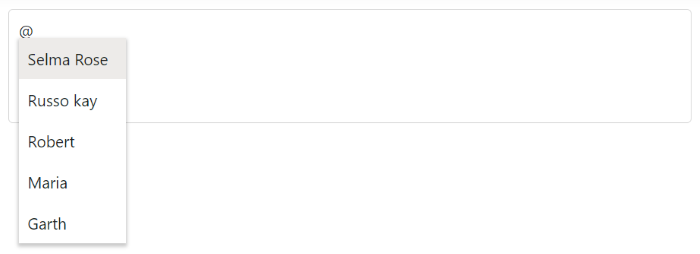
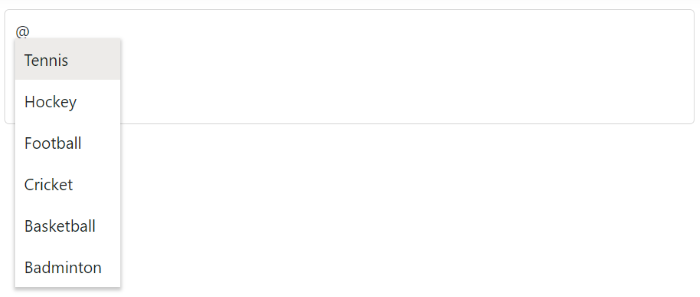
documentation(EJ2-65169): Addressed the review comments - Core MVC

diff --git a/ej2-asp-core-mvc/code-snippet/mention/sorting/SportsData.cs b/ej2-asp-core-mvc/code-snippet/mention/sorting/SportsData.cs
@@ -1,0 +1,25 @@
+using System;
+using System.Collections.Generic;
+using System.Linq;
+using System.Threading.Tasks;
+
+namespace WebApplication1.Models
+{
+    public class SportsData
+    {
+        public string ID { get; set; }
+        public string Game { get; set; }
+
+        public List<SportsData> SportsList()
+        {
+        List<SportsData> sports = new List<SportsData>();
+        sports.Add(new SportsData { ID="game1" ,Game ="Badminton"});
+        sports.Add(new SportsData { ID="game2" ,Game ="Football" });
+        sports.Add(new SportsData { ID="game3" ,Game ="Tennis"});
+        sports.Add(new SportsData { ID="game4" ,Game ="Hockey"});
+        sports.Add(new SportsData { ID="game5" ,Game ="Basketball"});
+        sports.Add(new SportsData { ID="game6" ,Game ="Cricket"});
+        return sports;
+        }
+    }
+}

diff --git a/ej2-asp-core-mvc/code-snippet/mention/filtering-data/allow-space/Employees.cs b/ej2-asp-core-mvc/code-snippet/mention/filtering-data/allow-space/Employees.cs
@@ -1,0 +1,24 @@
+using System;
+using System.Collections.Generic;
+using System.Linq;
+using System.Threading.Tasks;
+
+namespace WebApplication1.Models
+{
+    public class Employees
+    {
+        public string Name { get; set; }
+        public string Id { get; set; }
+        public List<Employees> GetData()
+        {
+            List<Employees> data = new List<Employees>();
+            data.Add(new Employees() { Name = "Andrew Fuller", Id = "1" });
+            data.Add(new Employees() { Name = "Anne Dodsworth" , Id = "2" } );
+            data.Add(new Employees() { Name = "Janet Leverling" , Id =  "3" } );
+            data.Add(new Employees() { Name = "Laura Callahan" , Id = "4" });
+            data.Add(new Employees() { Name = "Margaret Peacock" , Id = "5" });
+            return data;
+        }
+    }
+}
+

diff --git a/ej2-asp-core-mvc/mention/EJ2_ASP.NETCORE/filtering-data.md b/ej2-asp-core-mvc/mention/EJ2_ASP.NETCORE/filtering-data.md
@@ -42,18 +42,18 @@ In the following examples, data filtering is done with `StartsWith` type.
 
 ## Allow spacing between search
 
-While filtering, you can allow the space in the middle of the mention while searching the data in the data source by using the [allowSpaces](https://help.syncfusion.com/cr/aspnetmvc-js2/Syncfusion.EJ2.DropDowns.Mention.html#Syncfusion_EJ2_DropDowns_Mention_AllowSpaces) property. If the data source does not match with the mentioned element data, the popup will be hidden.
+While filtering the data in the data source, you can allow the space in the middle of the mention by using the [allowSpaces](https://help.syncfusion.com/cr/aspnetmvc-js2/Syncfusion.EJ2.DropDowns.Mention.html#Syncfusion_EJ2_DropDowns_Mention_AllowSpaces) property. If the data source does not match with the mentioned element data, the popup will be hidden.
 
 > By default, the `allowSpaces` property is disabled, and the space ends the mention control search.
 
-In the following example, `allowSpaces` property is enabled and the filtering waits after the space action
+In the following example, `allowSpaces` property is enabled and the filtering waits after the space action.
 
 {% tabs %}
 {% highlight cshtml tabtitle="CSHTML" %}
 {% include code-snippet/mention/filtering-data/allow-space/tagHelper %}
 {% endhighlight %}
 {% highlight c# tabtitle="Email.cs" %}
-{% include code-snippet/mention/filtering-data/allow-space/Countries.cs %}
+{% include code-snippet/mention/filtering-data/allow-space/Employees.cs %}
 {% endhighlight %}
 {% endtabs %}
 
@@ -61,7 +61,7 @@ In the following example, `allowSpaces` property is enabled and the filtering wa
 
 ## Customize the suggestion item count
 
-With the large amount of data source data bound for the Mention control, you can customize the number of list items to be displayed in the popup by using the [suggestionCount](https://help.syncfusion.com/cr/aspnetmvc-js2/Syncfusion.EJ2.DropDowns.Mention.html#Syncfusion_EJ2_DropDowns_Mention_SuggestionCount) property.
+You can customize the number of list items to be displayed in the popup by using the [suggestionCount](https://help.syncfusion.com/cr/aspnetmvc-js2/Syncfusion.EJ2.DropDowns.Mention.html#Syncfusion_EJ2_DropDowns_Mention_SuggestionCount) property.
 
 In the following example, the suggestion list for the popup is limited to eight data.
 

diff --git a/ej2-asp-core-mvc/mention/EJ2_ASP.MVC/filtering-data.md b/ej2-asp-core-mvc/mention/EJ2_ASP.MVC/filtering-data.md
@@ -48,18 +48,18 @@ In the following examples, data filtering is done with `StartsWith` type.
 
 ## Allow spacing between search
 
-While filtering, you can allow the space in the middle of the mention while searching the data in the data source by using the [AllowSpaces](https://help.syncfusion.com/cr/aspnetmvc-js2/Syncfusion.EJ2.DropDowns.Mention.html#Syncfusion_EJ2_DropDowns_Mention_AllowSpaces) property. If the data source does not match with the mentioned element data, the popup will be hidden.
+While filtering the data in the data source, you can allow the space in the middle of the mention by using the [AllowSpaces](https://help.syncfusion.com/cr/aspnetmvc-js2/Syncfusion.EJ2.DropDowns.Mention.html#Syncfusion_EJ2_DropDowns_Mention_AllowSpaces) property. If the data source does not match with the mentioned element data, the popup will be hidden.
 
 > By default, the `AllowSpaces` property is disabled, and the space ends the mention control search.
 
-In the following example, `AllowSpaces` property is enabled and the filtering waits after the space action
+In the following example, `AllowSpaces` property is enabled and the filtering waits after the space action.
 
 {% tabs %}
 {% highlight razor tabtitle="CSHTML" %}
 {% include code-snippet/mention/filtering-data/allow-space/razor %}
 {% endhighlight %}
 {% highlight c# tabtitle="Email.cs" %}
-{% include code-snippet/mention/filtering-data/allow-space/Countries.cs %}
+{% include code-snippet/mention/filtering-data/allow-space/Employees.cs %}
 {% endhighlight %}
 {% endtabs %}
 
@@ -67,7 +67,7 @@ In the following example, `AllowSpaces` property is enabled and the filtering wa
 
 ## Customize the suggestion item count
 
-With the large amount of data source data bound for the Mention control, you can customize the number of list items to be displayed in the popup by using the [SuggestionCount](https://help.syncfusion.com/cr/aspnetmvc-js2/Syncfusion.EJ2.DropDowns.Mention.html#Syncfusion_EJ2_DropDowns_Mention_SuggestionCount) property.
+You can customize the number of list items to be displayed in the popup by using the [SuggestionCount](https://help.syncfusion.com/cr/aspnetmvc-js2/Syncfusion.EJ2.DropDowns.Mention.html#Syncfusion_EJ2_DropDowns_Mention_SuggestionCount) property.
 
 In the following example, the suggestion list for the popup is limited to eight data.
 

diff --git a/ej2-asp-core-mvc/mention/EJ2_ASP.MVC/customization.md b/ej2-asp-core-mvc/mention/EJ2_ASP.MVC/customization.md
@@ -27,7 +27,7 @@ The following example displays the text content along with the customized mentio
 {% endhighlight %}
 {% endtabs %}
 
-![Show or hide mention character](../images/asp-core-mvc-mention-show-mention-char.png)
+![ASP.NET MVC Show or hide mention character](../images/asp-core-mvc-mention-show-mention-char.png)
 
 ## Adding the suffix character after selection
 
@@ -46,9 +46,11 @@ The following example displays the white space next to the text selected since t
 
 ## Configure the popup list
 
-By default, the width of the popup list adjusts automatically according to the mentioned suggestion list data's width, and the height of the popup list is `300px`. They can also be customized using the [PopupHeight](https://help.syncfusion.com/cr/aspnetmvc-js2/Syncfusion.EJ2.DropDowns.Mention.html#Syncfusion_EJ2_DropDowns_Mention_PopupHeight) and [PopupWidth](https://help.syncfusion.com/cr/aspnetmvc-js2/Syncfusion.EJ2.DropDowns.Mention.html#Syncfusion_EJ2_DropDowns_Mention_PopupWidth) properties respectively.
+You can customize the popup list width and height using the [PopupHeight](https://help.syncfusion.com/cr/aspnetmvc-js2/Syncfusion.EJ2.DropDowns.Mention.html#Syncfusion_EJ2_DropDowns_Mention_PopupHeight) and [PopupWidth](https://help.syncfusion.com/cr/aspnetmvc-js2/Syncfusion.EJ2.DropDowns.Mention.html#Syncfusion_EJ2_DropDowns_Mention_PopupWidth) properties.
 
-In the following sample, popup list's width and height are configured.
+By default, the popup list width value is set as `auto`. Depends on the mentioned suggestion list data, the width value is automatically adjust. The popup list height value is set as `300px`.
+
+In the following sample, popup list's width and height values are configured.
 
 {% tabs %}
 {% highlight razor tabtitle="CSHTML" %}
@@ -59,4 +61,4 @@ In the following sample, popup list's width and height are configured.
 {% endhighlight %}
 {% endtabs %}
 
-![Configure popup list](../images/asp-core-mvc-mention-popup-list-customization.png)
+![ASP.NET MVC popup list customization](../images/asp-core-mvc-mention-popup-list-customization.png)

diff --git a/ej2-asp-core-mvc/mention/EJ2_ASP.NETCORE/customization.md b/ej2-asp-core-mvc/mention/EJ2_ASP.NETCORE/customization.md
@@ -46,9 +46,11 @@ The following example displays the white space next to the text selected since t
 
 ## Configure the popup list
 
-By default, the width of the popup list adjusts automatically according to the mentioned suggestion list data width, and the height of the popup list is `300px`. They can also be customized using the [popupHeight](https://help.syncfusion.com/cr/aspnetmvc-js2/Syncfusion.EJ2.DropDowns.Mention.html#Syncfusion_EJ2_DropDowns_Mention_PopupHeight) and [popupWidth](https://help.syncfusion.com/cr/aspnetmvc-js2/Syncfusion.EJ2.DropDowns.Mention.html#Syncfusion_EJ2_DropDowns_Mention_PopupWidth) properties respectively.
+You can customize the popup list width and height using the [popupHeight](https://help.syncfusion.com/cr/aspnetmvc-js2/Syncfusion.EJ2.DropDowns.Mention.html#Syncfusion_EJ2_DropDowns_Mention_PopupHeight) and [popupWidth](https://help.syncfusion.com/cr/aspnetmvc-js2/Syncfusion.EJ2.DropDowns.Mention.html#Syncfusion_EJ2_DropDowns_Mention_PopupWidth) properties.
 
-In the following sample, popup list's width and height are configured.
+By default, the popup list width value is set as `auto`. Depends on the mentioned suggestion list data, the width value is automatically adjust. The popup list height value is set as `300px`.
+
+In the following sample, popup list's width and height values are configured.
 
 {% tabs %}
 {% highlight cshtml tabtitle="CSHTML" %}
@@ -59,6 +61,6 @@ In the following sample, popup list's width and height are configured.
 {% endhighlight %}
 {% endtabs %}
 
-![ASP.NET Core popup list customization](../images/asp-core-mvc-mention-popup-list.png)
+![ASP.NET Core popup list customization](../images/asp-core-mvc-mention-popup-list-customization.png)
 
 

diff --git a/ej2-asp-core-mvc/mention/EJ2_ASP.NETCORE/working-with-data.md b/ej2-asp-core-mvc/mention/EJ2_ASP.NETCORE/working-with-data.md
@@ -64,7 +64,7 @@ In the following example, `Code.Id` column and `Country.CountryId` column from c
 {% include code-snippet/mention/working-with-data/complex-data/tagHelper %}
 {% endhighlight %}
 {% highlight c# tabtitle="Complex.cs" %}
-{% include code-snippet/mention/working-with-data/complex-data/Complexdata.cs %}
+{% include code-snippet/mention/working-with-data/complex-data/Complex.cs %}
 {% endhighlight %}
 {% endtabs %}
 

diff --git a/ej2-asp-core-mvc/mention/EJ2_ASP.MVC/working-with-data.md b/ej2-asp-core-mvc/mention/EJ2_ASP.MVC/working-with-data.md
@@ -70,7 +70,7 @@ In the following example, `Code.Id` column and `Country.CountryId` column from c
 {% include code-snippet/mention/working-with-data/complex-data/razor %}
 {% endhighlight %}
 {% highlight c# tabtitle="Complex.cs" %}
-{% include code-snippet/mention/working-with-data/complex-data/Complexdata.cs %}
+{% include code-snippet/mention/working-with-data/complex-data/Complex.cs %}
 {% endhighlight %}
 {% endtabs %}
 

diff --git a/ej2-asp-core-mvc/mention/EJ2_ASP.NETCORE/localization.md b/ej2-asp-core-mvc/mention/EJ2_ASP.NETCORE/localization.md
@@ -10,7 +10,7 @@ documentation: ug
 
 # Localization
 
-Mention component can be localized. Refer to [Localization](../../common/EJ2_ASP.NETCORE/localization.md) topic to localize Syncfusion ASP.NET Core components.
+ASP.NET Core Mention component can be localized. Refer to ASP.NET Core [Localization](../../common/EJ2_ASP.NETCORE/localization.md) topic to localize Syncfusion ASP.NET Core components.
 
 ## See Also
 

diff --git a/ej2-asp-core-mvc/mention/EJ2_ASP.MVC/localization.md b/ej2-asp-core-mvc/mention/EJ2_ASP.MVC/localization.md
@@ -10,7 +10,7 @@ documentation: ug
 
 # Localization
 
-Mention component can be localized. Refer to [Localization](../../common/EJ2_ASP.MVC/localization.md) topic to localize Syncfusion ASP.NET MVC components.
+ASP.NET MVC Mention component can be localized. Refer to ASP.NET Core [Localization](../../common/EJ2_ASP.MVC/localization.md) topic to localize Syncfusion ASP.NET MVC components.
 
 ## See Also
 

diff --git a/ej2-asp-core-mvc/mention/EJ2_ASP.NETCORE/sorting.md b/ej2-asp-core-mvc/mention/EJ2_ASP.NETCORE/sorting.md
@@ -19,7 +19,7 @@ In the following sample, the popup list data is rendered in `Descending` order.
 {% include code-snippet/mention/sorting/tagHelper %}
 {% endhighlight %}
 {% highlight c# tabtitle="Data.cs" %}
-{% include code-snippet/mention/sorting/EmailData.cs %}
+{% include code-snippet/mention/sorting/SportsData.cs %}
 {% endhighlight %}
 {% endtabs %}
 

diff --git a/ej2-asp-core-mvc/mention/EJ2_ASP.MVC/sorting.md b/ej2-asp-core-mvc/mention/EJ2_ASP.MVC/sorting.md
@@ -19,7 +19,7 @@ In the following sample, the popup list data is rendered in `Descending` order.
 {% include code-snippet/mention/sorting/razor %}
 {% endhighlight %}
 {% highlight c# tabtitle="Data.cs" %}
-{% include code-snippet/mention/sorting/EmailData.cs %}
+{% include code-snippet/mention/sorting/SportsData.cs %}
 {% endhighlight %}
 {% endtabs %}
 
